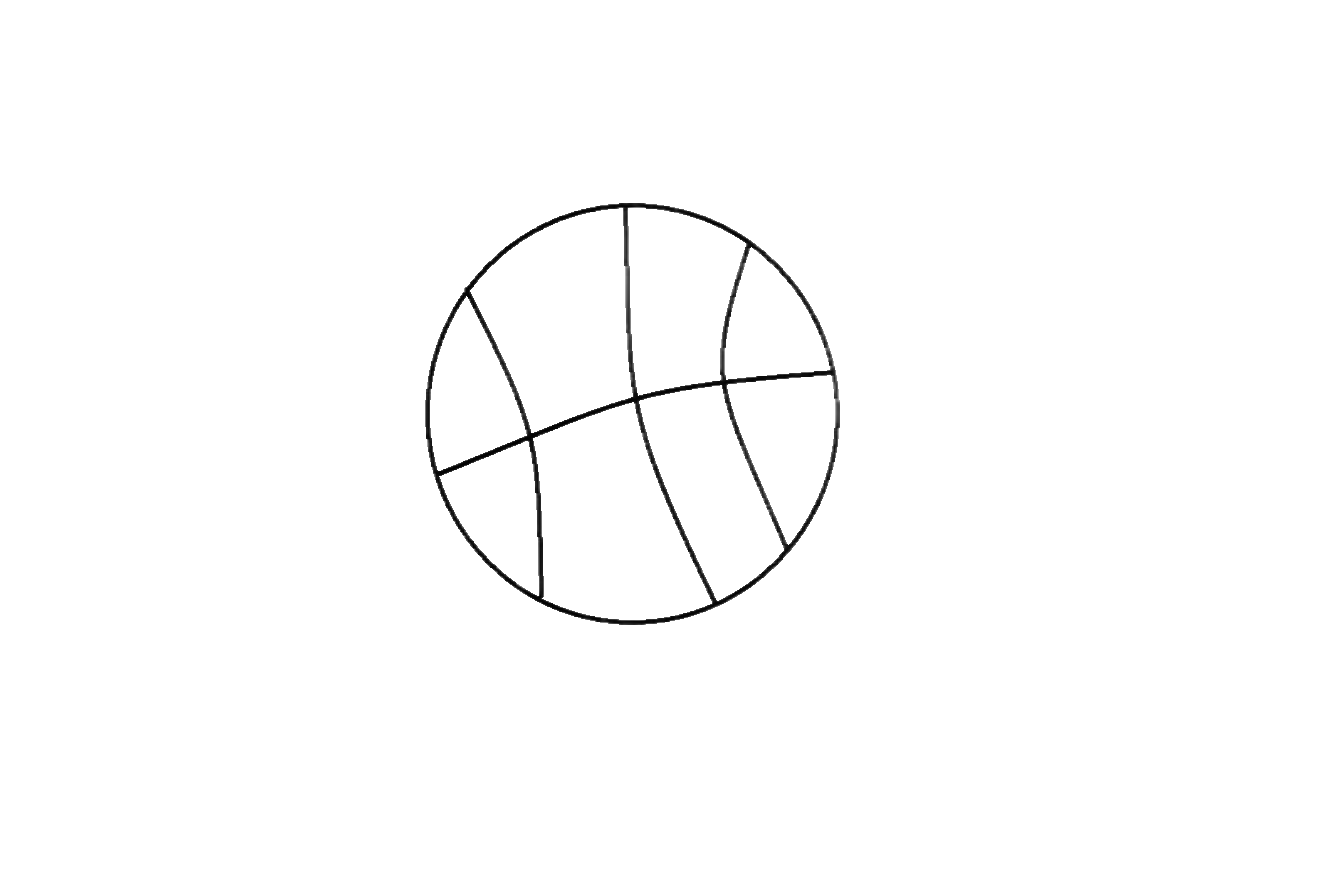
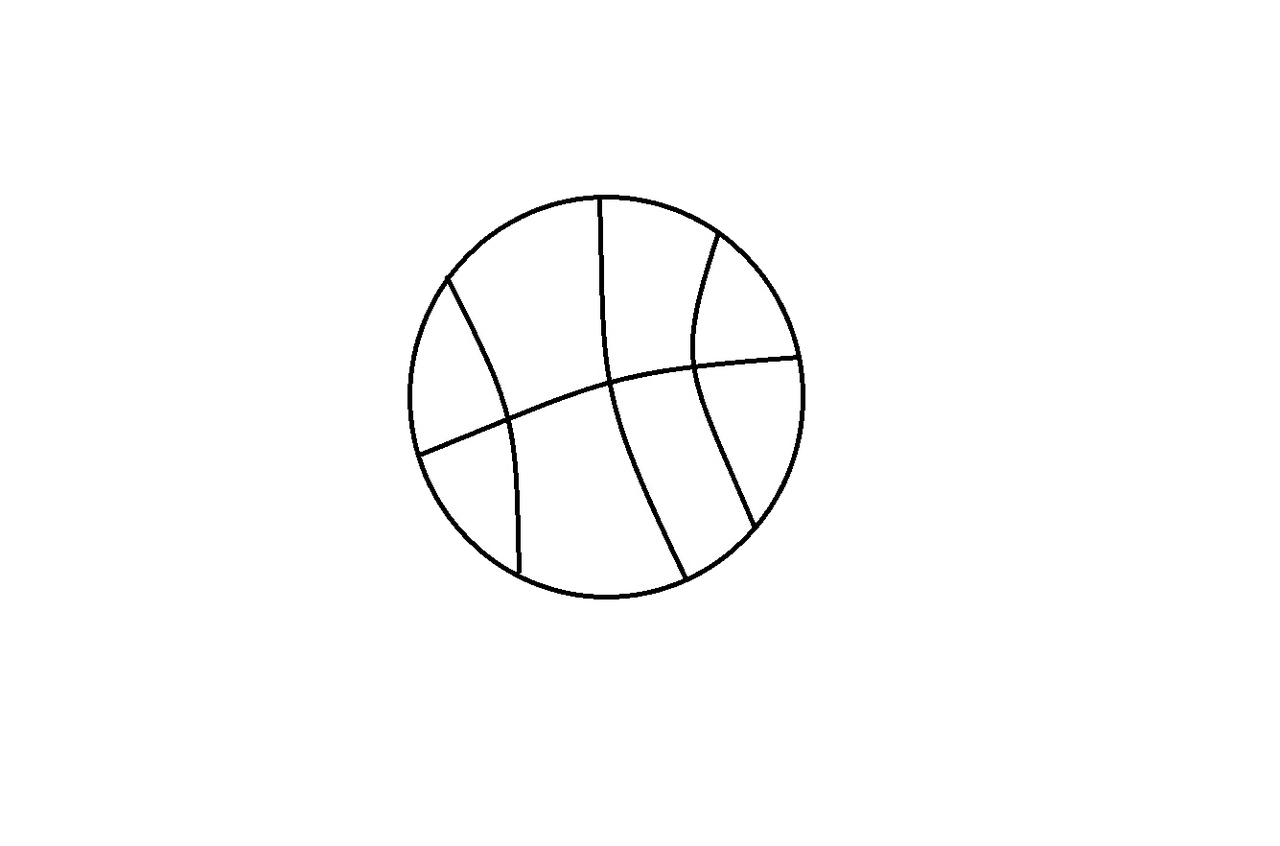
под апк обновил

diff --git a/version1_1/aaaaa_clicker(Seryozha's).pygame/gui/inventory.py b/version1_1/aaaaa_clicker(Seryozha's).pygame/gui/inventory.py
@@ -3,6 +3,10 @@ import pygame
 from PIL import Image as PILImage
 from gui import Screen, Button, get_font, render_text, strip_emoji
 
+# Content view for the skins tab must not reach the Back button (which starts
+# at screen y=440). Stop before it so scrolled cells never draw over it.
+_SKIN_VIEW_BOTTOM = 437
+
 
 class InventoryScreen(Screen):
     def __init__(self, app):
@@ -139,8 +143,7 @@ class InventoryScreen(Screen):
         return baskets_y + 25 + (100 if nbasket else 0) + 8
 
     def _skins_max_scroll(self, surface=None):
-        view_bottom = (surface.get_height() if surface else 480) - 10
-        return max(0, self._skins_content_bottom() - view_bottom)
+        return max(0, self._skins_content_bottom() - _SKIN_VIEW_BOTTOM)
 
     def handle_event(self, event):
         self.btn_tab_potions.handle_event(event)
@@ -254,10 +257,11 @@ class InventoryScreen(Screen):
         x_start = 40
         y_start = 135
 
-        view_bottom = surface.get_height() - 10
+        view_bottom = _SKIN_VIEW_BOTTOM
 
         old_clip = surface.get_clip()
-        surface.set_clip(pygame.Rect(0, 105, surface.get_width(), view_bottom - 105))
+        surface.set_clip(pygame.Rect(0, 105, surface.get_width(),
+                                     _SKIN_VIEW_BOTTOM - 105))
 
         render_text(surface, tr["skins_balls"] + ":", font_label, (0, 0, 0), 40, 110 - scroll, 520)
 

diff --git a/version1_1/aaaaa_clicker(Seryozha's).pygame/main.py b/version1_1/aaaaa_clicker(Seryozha's).pygame/main.py
@@ -131,12 +131,15 @@ class App:
                                     self.back_btn_rect.centery - txt_surf.get_height() // 2))
 
     def _draw_glitch_label(self):
+        if self.current_screen != "game":
+            return
         font = get_font(10)
         txt = font.render("GlitchHunters", True, (0, 0, 200))
         self.screen.blit(txt, (10, HEIGHT - 25))
 
     def on_closing(self):
-        self.game.save_game()
+        # save_settings() writes settings and, via game.save_game(), persists
+        # points and recomputes the anti-cheat MAC so progress survives relaunch.
         self.save_settings()
         self.running = False
         pygame.quit()
@@ -169,6 +172,13 @@ class App:
         try:
             with open(settings_file, "w", encoding="utf-8") as f:
                 json.dump(self.settings, f, ensure_ascii=False, indent=4)
+        except Exception:
+            pass
+        # Anti-cheat: the MAC (_v) binds points to settings context (language,
+        # skins, inventories). Recompute it after ANY settings change so a later
+        # load never mistakes a legitimate change for tampering.
+        try:
+            self.game.save_game()
         except Exception:
             pass
 

diff --git a/version1_1/aaaaa_clicker(Seryozha's).pygame/gui/shop.py b/version1_1/aaaaa_clicker(Seryozha's).pygame/gui/shop.py
@@ -245,7 +245,6 @@ class ShopScreen(Screen):
             return
 
         self.app.game.points -= item["price"]
-        self.app.game.save_game()
 
         inv_key = "inventory_balls" if kind == "ball" else "inventory_baskets"
         inv = self.app.settings.get(inv_key, [])
@@ -269,7 +268,6 @@ class ShopScreen(Screen):
             return
 
         self.app.game.points -= SET_PRICE
-        self.app.game.save_game()
 
         for v in BKBALL_VARIANTS:
             if v["file"] not in inv:
@@ -291,7 +289,6 @@ class ShopScreen(Screen):
             return
 
         self.app.game.points -= SET_PRICE
-        self.app.game.save_game()
 
         for v in CSBALL_VARIANTS:
             if v["file"] not in inv:

diff --git a/version1_1/aaaaa_clicker(Seryozha's).pygame/game_logic.py b/version1_1/aaaaa_clicker(Seryozha's).pygame/game_logic.py
@@ -20,19 +20,20 @@ class ClickerGame:
 
     def try_add_point(self, clicks):
         if clicks == 0:
-            return False, 0.0
+            return False, 0.0, 0
 
         base_chance = 0.3
         luck_factor = min(clicks * 0.05, 0.7)
         total_chance = min(base_chance + luck_factor, 0.95)
         success = random.random() < total_chance
+        points_to_add = 0
 
         if success:
             points_to_add = 2 if self.is_potion_active() else 1
             self.points += points_to_add
             self.save_game()
 
-        return success, total_chance
+        return success, total_chance, points_to_add
 
     def get_points(self):
         return self.points

diff --git a/version1_1/aaaaa_clicker(Seryozha's).pygame/gui/game.py b/version1_1/aaaaa_clicker(Seryozha's).pygame/gui/game.py
@@ -103,7 +103,7 @@ class GameScreen(Screen):
         self._update_button_text()
 
     def _process_result(self):
-        success, _ = self.app.game.try_add_point(self.click_count)
+        success, _, added = self.app.game.try_add_point(self.click_count)
         self.court_success.stop()
         self.court_fail.stop()
 
@@ -118,7 +118,7 @@ class GameScreen(Screen):
         self._update_button_text()
 
         if success:
-            self._float_text = "+1"
+            self._float_text = f"+{added}"
             self._float_color = (0, 200, 0)
             self._float_y = 150.0
             self._float_timer = 40

diff --git a/version1_1/aaaaa_clicker(Seryozha's).pygame/animation/court_base.py b/version1_1/aaaaa_clicker(Seryozha's).pygame/animation/court_base.py
@@ -74,6 +74,7 @@ class CourtBase:
 
         self._man_descending = False
         self._man_descend_t = 0
+        self._man_descent_tick = 0
 
         self.load_images()
 
